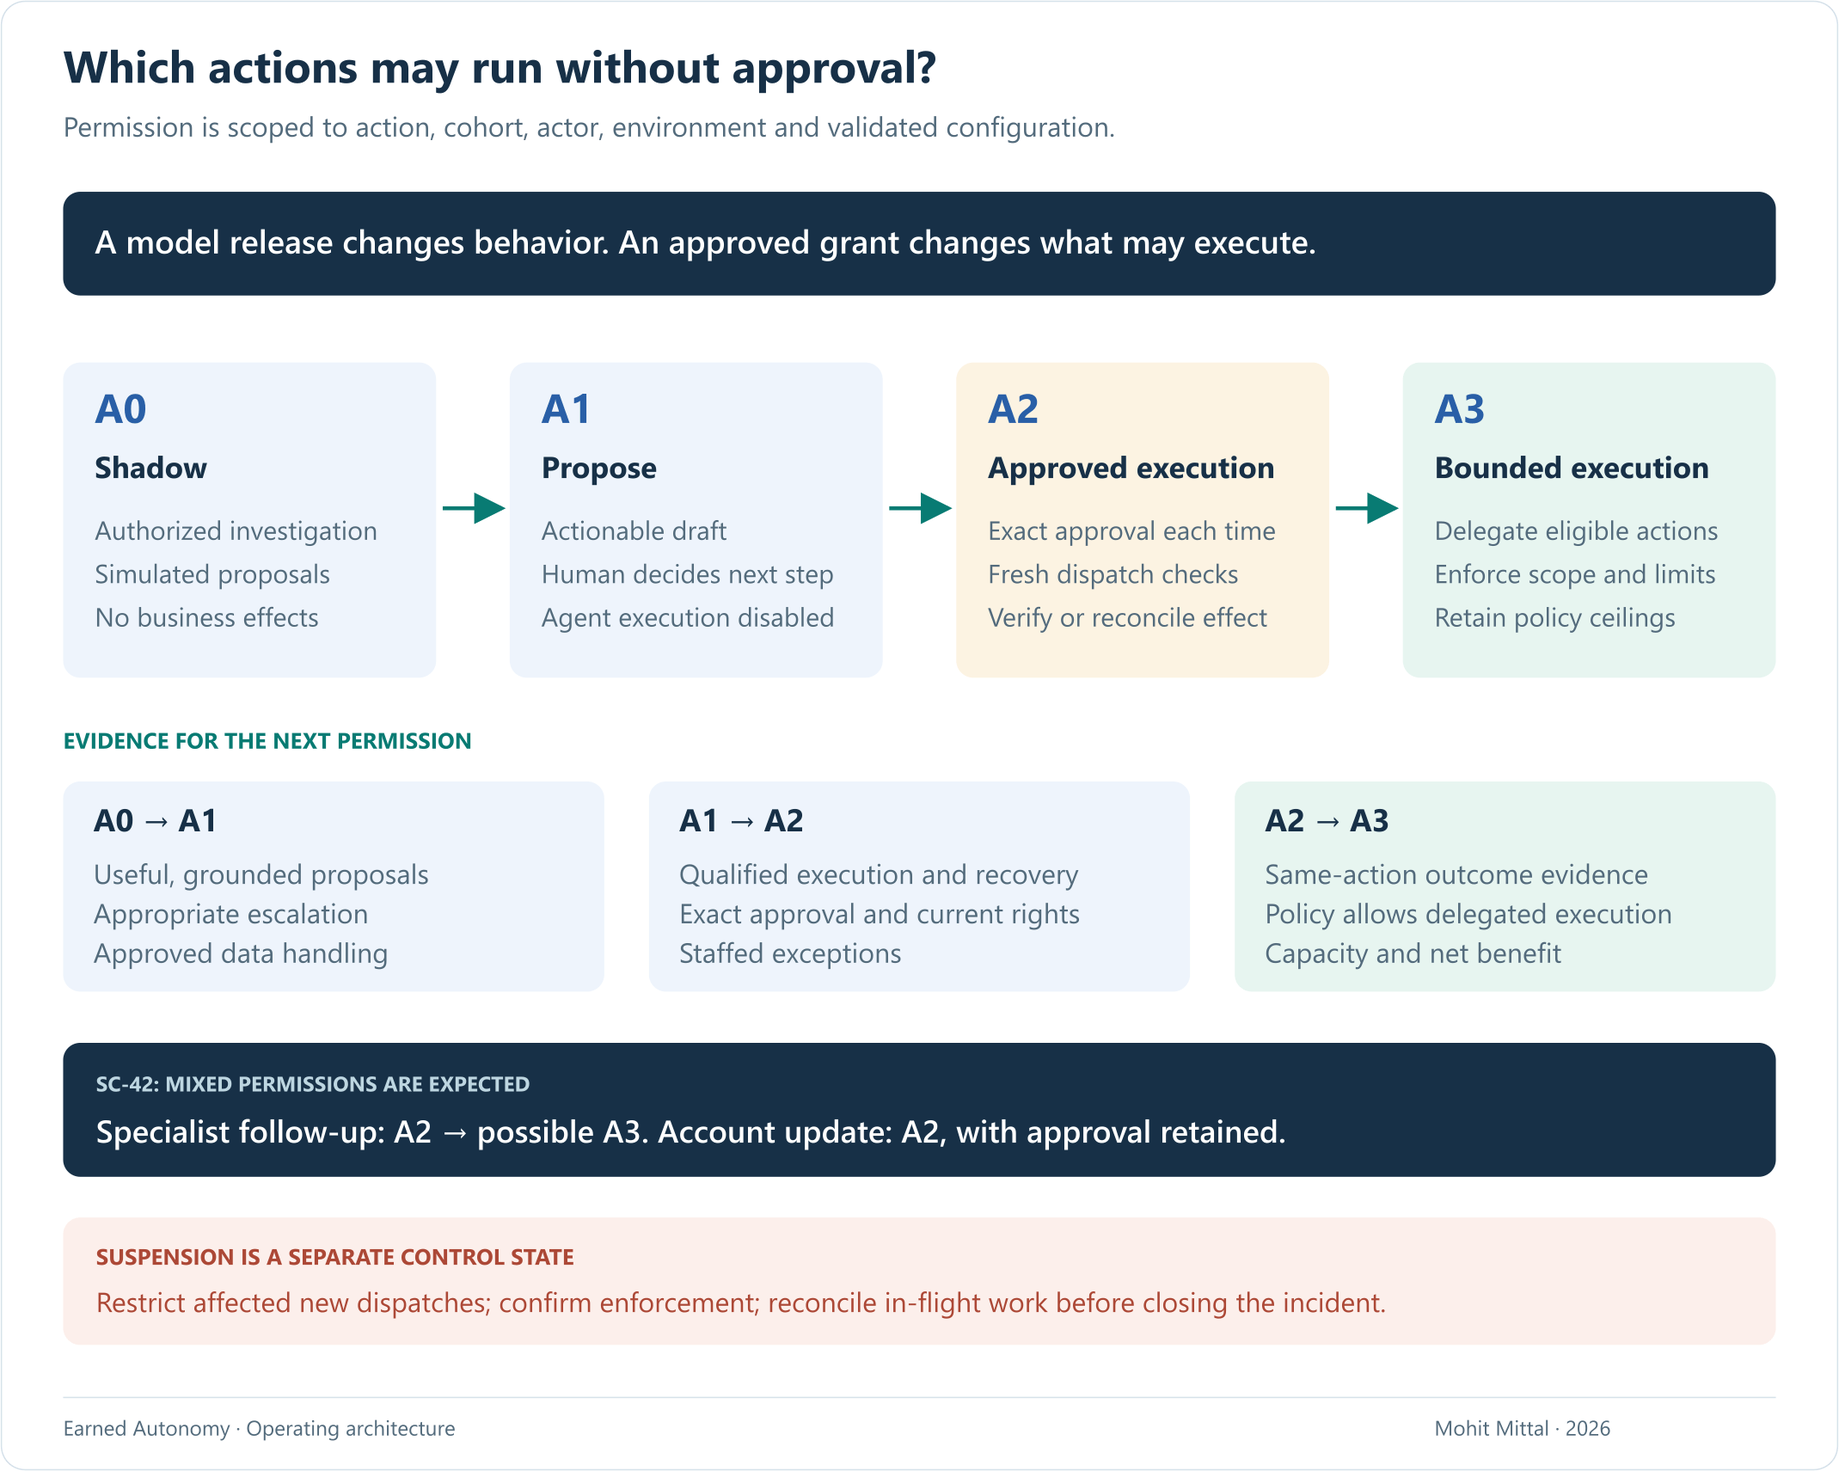
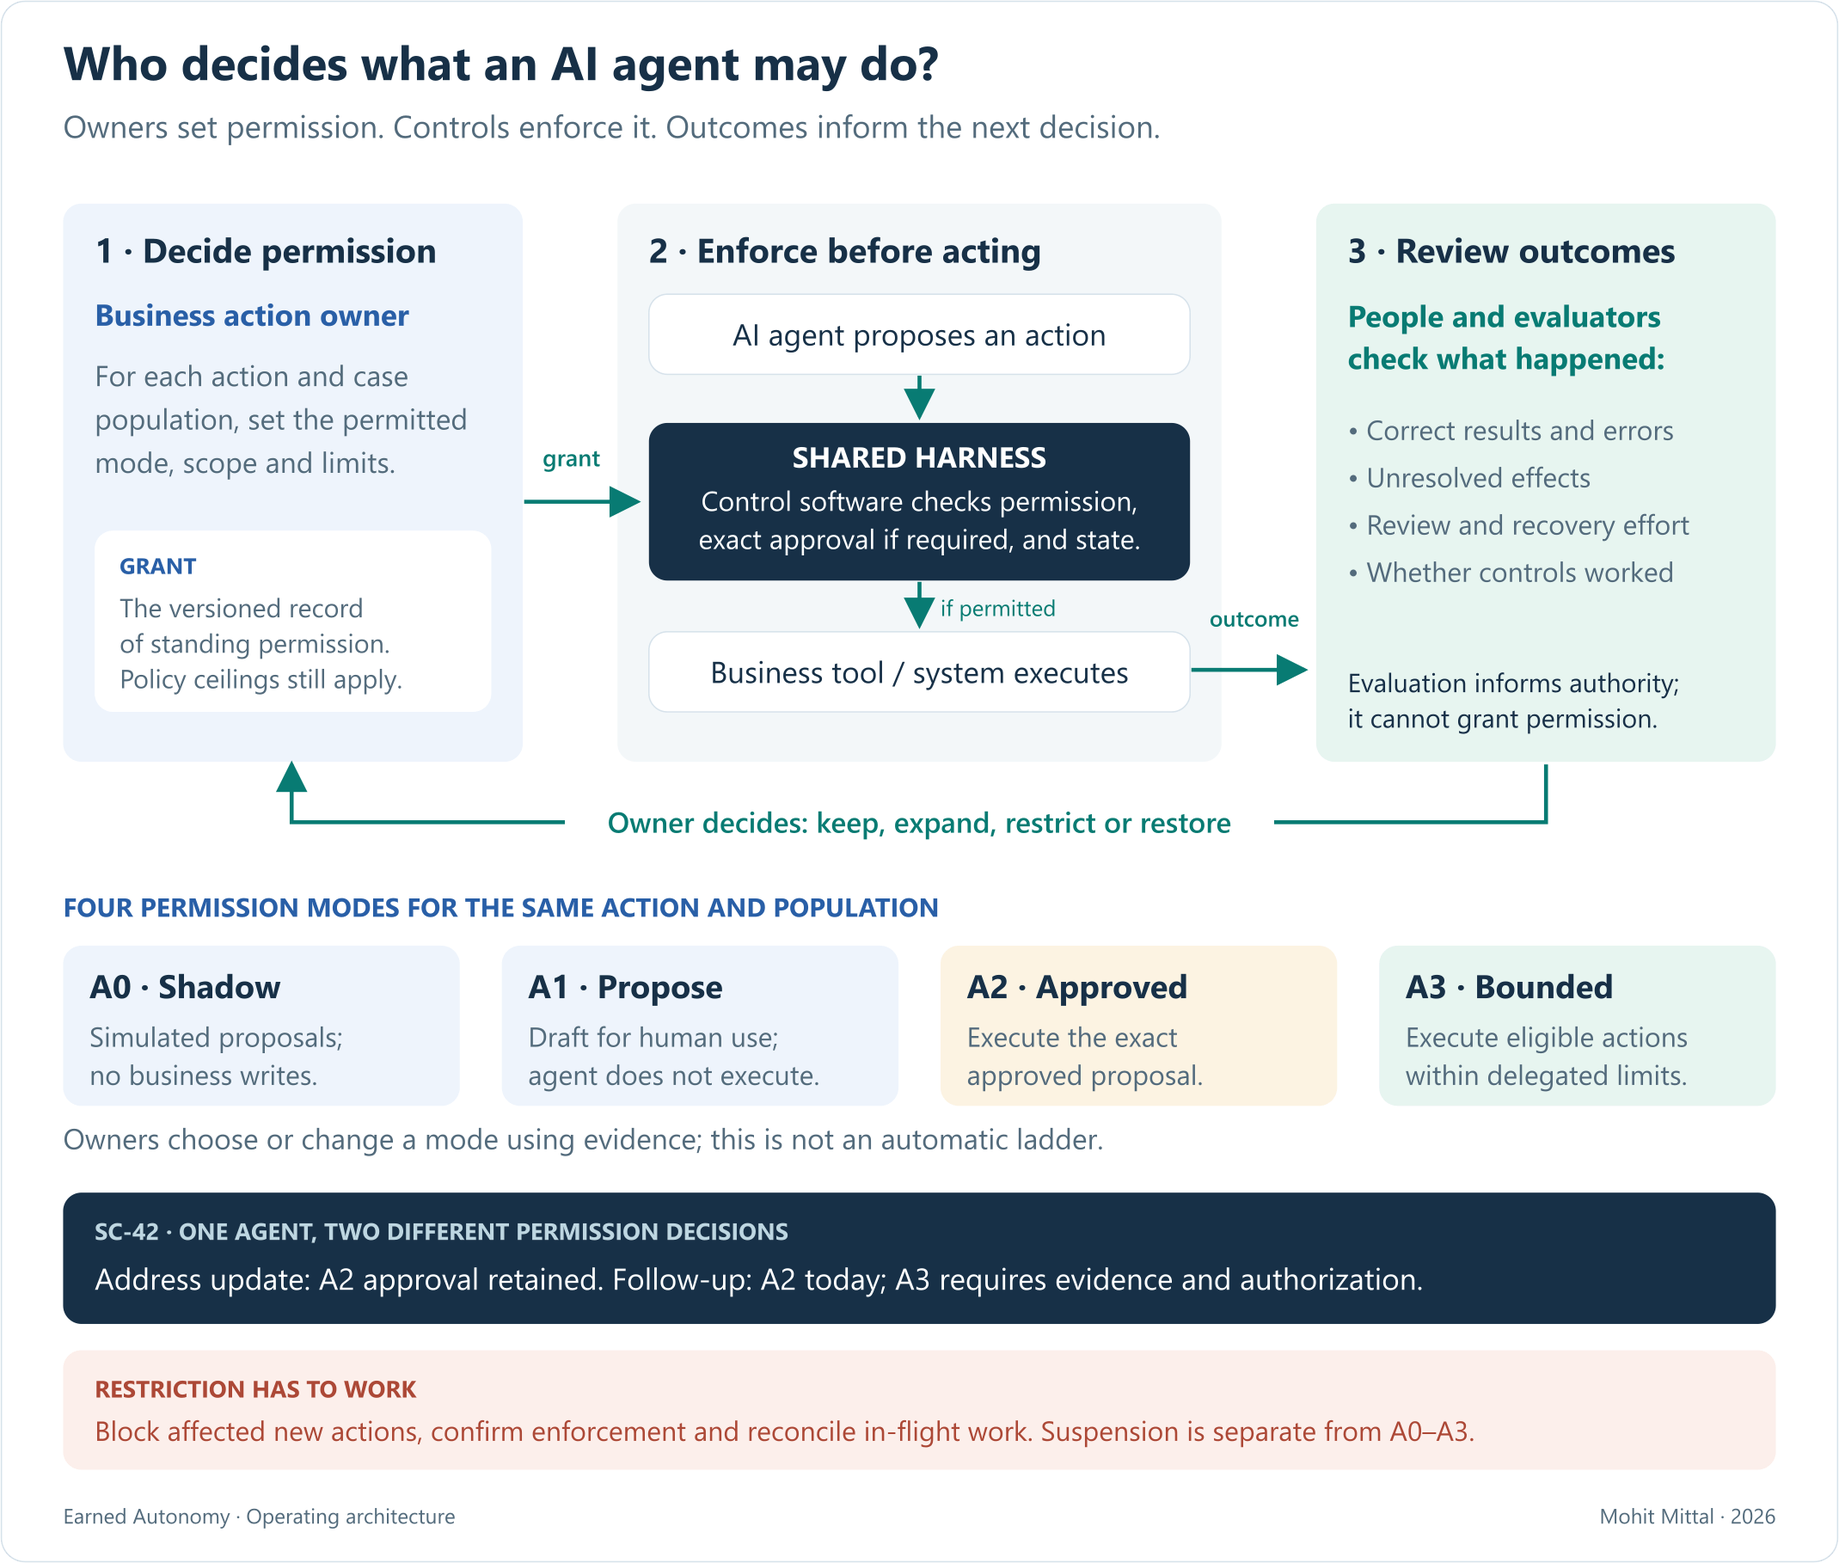
Explain the business context before permissions and show the operating model first

diff --git a/README.md b/README.md
@@ -1,50 +1,32 @@
 # Earned Autonomy
 
-**A model release changes behavior. An approved grant changes what may execute.**
+**How enterprises decide what AI agents may do—and keep that authority under control.**
 
-When nobody can defend write access—or confirm it has been revoked—an agent stays at drafting. Give each action a versioned permission, enforce it through a shared harness, and test how operators take it back.
+An AI agent can investigate a service request, recommend a change or use tools to update a business system. Each activity carries different consequences. Access to read a customer record should not also permit changing it.
 
-**Fund a 90-day evaluation of one servicing case type.** The payoff to test is correctly resolved work with less advisor and operations effort. Day 90 produces an evidence-backed decision: expand, narrow or stop.
+**Earned autonomy means granting permission for specific business actions, based on evidence, with a working way to restrict or withdraw it.** One agent can have different permissions: draft a response, update an address after approval, or create an internal follow-up within delegated limits.
 
-## What the 90 days should deliver
+The operating model connects three responsibilities: **owners decide permissions; a shared harness (control software) enforces them; people and evaluation tools review outcomes.** That review informs the owner's next permission decision. The aim is useful work with less total human effort while preserving quality and control.
 
-The operations sponsor owns the outcome; the platform lead owns execution and recovery; domain reviewers and risk partners agree acceptance criteria.
-
-| Window | Deliverable |
-|---|---|
-| Days 1–30 | Baseline effort/cost, eligible cases, action owners and destination guarantees. |
-| Days 31–60 | Bounded implementation; evaluation, approval, restriction and reconciliation drills. |
-| Days 61–90 | Supervised cohort when entry conditions pass; economics, control evidence, gaps and expansion recommendation. |
-
-**Resources:** [ILLUSTRATIVE — replace with real data: staff allocation and 90-day budget cap]. Advancement requires evidence, not a date.
-
-## Is the work worth delegating?
-
-Choose sufficient volume, variable investigation paths, measurable resolution and bounded effects with workable recovery. Prefer a fixed workflow where it solves the problem more cheaply.
-
-**Monthly net capacity value** = eligible cases × handling minutes × expected gross reduction ÷ 60 × loaded hourly cost − incremental review, exception, runtime/platform and governance costs.
-
-[ILLUSTRATIVE — replace with real data: all formula inputs; costs in dollars/month; implementation cost reported separately]. Count each cost once. Capacity value becomes cash savings only through a spending decision.
-
-Price the whole investigation/resolution workflow. Measure the extra benefit of removing follow-up approval separately. Don't fund this if review and recovery consume the benefit. [Sizing worksheet](reference-design.md#value-sizing)
+The recorded permission is a **grant**. **A model release changes behavior. An approved grant changes what may execute.**
 
 ## Follow one case through the controls
 
-In fictional case **SC-42**, a document and account record disagree on the mailing address. The agent investigates permitted sources; the discrepancy alone proves no intent to change it. Unauthorized address changes can signal account takeover, so address updates retain verification and approval here. [FINRA](https://www.finra.org/investors/insights/customer-account-takeovers)
+In fictional **SC-42**, an advisor asks why a request remains open. The agent finds conflicting mailing addresses, which do not establish client intent. Unauthorized address changes can signal account takeover, so an update requires verification and approval. [FINRA](https://www.finra.org/investors/insights/customer-account-takeovers)
 
 <a id="permission-modes"></a>
 
-### 1 · Choose authority per action
+### 1 · Connect decisions, execution and evidence
 
-**A0** shadows; **A1** drafts; **A2** executes an approved proposal; **A3** executes within delegated limits. Each applies to an action and case population. Address updates stay A2; internal specialist follow-ups are the candidate for A3.
+Set permissions per action and case population. Address updates require approval. The delegation candidate creates specialist follow-up tickets in approved internal queues.
 
-[![Permission modes and evidence needed to change them](diagrams/p2-autonomy-per-action.png)](diagrams/p2-autonomy-per-action.png)
+[![Permission decisions, enforcement and outcome review](diagrams/p2-autonomy-per-action.png)](diagrams/p2-autonomy-per-action.png)
 
 <a id="shared-harness"></a>
 
 ### 2 · Enforce the permission
 
-The **shared harness** checks access, limits and required evidence, dispatches actions and records outcomes. A **grant** sets standing permission; an **approval** authorizes one exact proposal. Each agent has an owner and supported configuration.
+The **shared harness** is the control software between an agent and its business tools. It checks permission, required approval and current conditions before execution, then records outcomes. An **approval** authorizes one exact proposal within the standing grant.
 
 [![Agents connect to the shared harness and operating controls](diagrams/p2-agent-harness.png)](diagrams/p2-agent-harness.png)
 
@@ -52,7 +34,7 @@ The **shared harness** checks access, limits and required evidence, dispatches a
 
 ### 3 · Check again at dispatch
 
-Verification establishes the client's intended address; a reviewer approves the exact change. Recheck the payload, current rights, grant and preconditions at dispatch. AI evaluators assess evidence; they cannot grant authority. The address operation **OP-42** times out. Reconcile its outcome before deciding whether to retry.
+Verification establishes the client's intended address; a reviewer approves the exact change. Before sending it, the shared harness rechecks the payload, rights, grant and preconditions. AI evaluators assess evidence; they cannot grant authority. The address operation **OP-42** times out. Reconcile its outcome before deciding whether to retry.
 
 [![Proposal, fresh checks, execution and verification](diagrams/p2-model-proposes-policy-decides.png)](diagrams/p2-model-proposes-policy-decides.png)
 
@@ -60,7 +42,7 @@ Verification establishes the client's intended address; a reviewer approves the 
 
 ### 4 · Confirm that a restriction took effect
 
-Operations requests a hold on new address updates for SC-42. The console shows acknowledgment pending and OP-42 unknown. The case-specific hold cannot undo an in-flight update. Follow-up promotion is deferred because necessity and routing evidence are incomplete.
+Operations requests a hold on new SC-42 address updates. Acknowledgment is pending; OP-42 remains unknown. The hold cannot undo an in-flight update. The owner retains A2 for follow-ups: necessity and routing evidence remain incomplete.
 
 [![Console distinguishes a requested case hold from confirmed enforcement](diagrams/p2-agentic-console.png)](diagrams/p2-agentic-console.png)
 
@@ -68,7 +50,7 @@ Operations requests a hold on new address updates for SC-42. The console shows a
 
 ### 5 · Reconstruct the outcome
 
-Operations looks up OP-42 and compares authoritative state with the approved payload. The update is confirmed without repeating it. Completing that action leaves separate case-resolution checks and closure authorization.
+Operations looks up OP-42 and verifies authoritative state against the approved payload, confirming the update without repeating it. Case closure requires separate checks and authorization.
 
 [![Decision record links authorization to the verified outcome](diagrams/p2-decision-record.png)](diagrams/p2-decision-record.png)
 
@@ -80,9 +62,19 @@ Engineers improve sources, tools, prompts or models. Action owners review grants
 
 [![Separate behavior-improvement and authority-review loops](diagrams/p2-evaluation-loop.png)](diagrams/p2-evaluation-loop.png)
 
+## Is the work worth delegating?
+
+Choose frequent cases where investigations take different paths, outcomes are measurable and recovery is workable. Prefer a cheaper fixed workflow when it suffices.
+
+**Monthly net capacity value** = eligible cases × handling minutes × expected gross reduction ÷ 60 × loaded hourly cost − incremental review, exception, runtime/platform and governance costs.
+
+[ILLUSTRATIVE — replace with real data: all formula inputs; costs in dollars/month; implementation cost reported separately]. Count costs once. Released capacity becomes cash savings through a spending reduction.
+
+Price the whole workflow and the extra benefit of removing follow-up approval separately. Stop if review and recovery consume the benefit. [Sizing worksheet](reference-design.md#value-sizing)
+
 ## Why can't I buy this?
 
-Reuse identity, scoped tools, approval workflows and tracing. Buy their implementation where it meets the contract. Test the connections: **versioned per-action grants separate from model versions, a promotion evidence packet, restriction acknowledgment and owned reconciliation**. The firm owns domain criteria and acceptance even when a supplier implements the controls.
+Reuse identity, scoped tools, approval and tracing. Evaluate purchased controls against four contracts: **versioned per-action grants separate from model versions, promotion evidence, restriction acknowledgment and owned reconciliation**. The firm defines acceptable actions and outcomes.
 
 ## Fit the decisions into existing governance
 
@@ -93,6 +85,18 @@ Owners confirm this proposed mapping:
 | Grant change | Change management; supervisory procedures; versioned authorization. |
 | Promotion review | Business owner; model-risk practice where applicable; retained evaluation packet. |
 | Suspension/restoration | Incident procedures; enforcement acknowledgment; recovery and audit records. |
+
+## Test one workflow over 90 days
+
+The operations sponsor owns results; the platform lead owns execution and recovery. Domain and risk reviewers set acceptance criteria.
+
+| Window | Deliverable |
+|---|---|
+| Days 1–30 | Select cases; baseline effort/cost; agree permissions and recovery responsibilities. |
+| Days 31–60 | Implement controls; test approvals, restrictions and recovery from uncertain outcomes. |
+| Days 61–90 | Supervised use when entry criteria pass. Review costs, outcomes and controls; decide: expand, narrow or stop. |
+
+**Resources:** [ILLUSTRATIVE — replace with real data: staff allocation and 90-day budget cap].
 
 > **What this is and isn't:** A reference architecture with synthetic cases and unexecuted design artifacts. The modes are optional design vocabulary; shadow results cannot establish write/recovery safety. Owners set thresholds. No deployed results, vendor endorsement or compliance certification is asserted.
 

diff --git a/earned-autonomy-operating-model.md b/earned-autonomy-operating-model.md
@@ -1,12 +1,16 @@
 # Earned Autonomy: an operating model for agents that act
 
-**A model release changes behavior. An approved grant changes what may execute.**
-
 *Mohit Mittal · September 2026*
 
-When a team cannot defend write access or demonstrate revocation, its agent remains a drafting tool. Give each business action a versioned grant, enforce it through a shared harness, and make operations responsible for unresolved effects. Judge success by correctly resolved work, total human effort and operating cost.
+An AI agent can investigate a service request, recommend a change or use tools to update a business system. Each activity carries different consequences. Access to read a customer record should not also permit changing it.
 
-Start with a bounded 90-day evaluation of one case type. The decision packet should show whether to expand, narrow or stop, which controls worked, what remains unresolved and who will operate the service. [Scope, resources and value sizing](reference-design.md#value-sizing)
+**Earned autonomy means granting permission for specific business actions, based on evidence, with a working way to restrict or withdraw it.** One agent can draft recommendations, update addresses after human approval and create eligible internal follow-ups within delegated limits. Permission varies by action and population.
+
+The operating model connects three responsibilities: owners decide permissions; a shared harness—the control software between the agent and its business tools—checks and enforces them; people and evaluation tools review actual outcomes. That evidence informs the owner's next permission decision. The objective is correctly resolved work with less total human effort and acceptable operating cost.
+
+The recorded permission is a **grant**. **A model release changes behavior. An approved grant changes what may execute.** Existing identity, approval and monitoring capabilities provide foundations. The integration work connects a versioned action grant to execution checks, review evidence, confirmed restrictions and recovery of uncertain outcomes.
+
+Use one workflow to evaluate the operating model before expanding it. A bounded 90-day evaluation can establish whether to expand, narrow or stop. [Scope, resources and value sizing](reference-design.md#value-sizing)
 
 > **What this is and isn't:** An independent reference architecture. Cases, identifiers, console states and grant-review outcomes are synthetic; design artifacts are unexecuted. A0–A3 are optional design vocabulary. Owners choose numerical acceptance limits before evaluation; shadow results cannot establish write or recovery safety. Sources provide context, not certification of the design. Product examples are candidates to evaluate; no employer deployment, measured benefit or customer fine-tuning capability is asserted.
 
@@ -22,11 +26,9 @@ In SC-42, investigation discovers a mailing-address mismatch. The domain owner m
 
 Price the whole investigation and resolution workflow. Internal follow-up creation is the first limited delegation to evaluate; it cannot justify the platform on ticket volume alone. Compare the additional A2-to-A3 benefit with the review removed and the audit, exception and queue work it adds. Keep the action approval-gated when that incremental benefit is absent.
 
-[AUTHOR: Add one anonymized example of a real delegation decision you owned: the workflow, the permission withheld or granted, your design choice and the observed result. Include only facts you can publish.]
-
 ## Authority is a contract for an action
 
-[![Four action-scoped autonomy modes, with distinct promotion evidence and a separate suspension control](diagrams/p2-autonomy-per-action.png)](diagrams/p2-autonomy-per-action.png)
+[![Permission decisions, enforcement and outcome review, with four modes for each action](diagrams/p2-autonomy-per-action.png)](diagrams/p2-autonomy-per-action.png)
 
 Treat an authority grant as a versioned record: **action, actor/delegation, scope, eligible cohort, environment, allowed mode, mandatory approvals, limits, expiry, validated system/configuration versions and accountable owner**. The registered capability describes what the agent can attempt; the grant describes what it may perform. Current policy and destination authorization can further restrict it.
 
@@ -105,8 +107,6 @@ This snapshot shows OP-42 after a timeout, before reconciliation. The later deci
 For each action/cohort, show the effective grant and configuration, owner, policy ceiling, evaluation window, sample coverage, material errors, human effort and exception backlog. Expose missing evidence instead of displaying an unexplained green trust score. Operators should be able to move from a metric to the reviewed cases and operation records that produced it.
 
 A promotion request records the proposed change, evidence and approvers. Restriction records have separate **requested**, **enforcement confirmed**, and **in-flight reconciled** states. Measure the delay between them. The console must not display “suspended” merely because it accepted a button click; an unacknowledged request needs a defined operational escalation.
-
-[AUTHOR: Add an anonymized operational lesson about revocation, a stop control or an uncertain write. State what you personally observed, who owned recovery and what changed. Omit this note if no publishable example exists.]
 
 Business owners authorize grant expansion with risk partners. Operations may restrict within preauthorized incident procedures. Restoration has its own approval path. These changes use authenticated, authorized and audited control APIs; the evaluating model cannot write the grant store or approve its own recommendations.
 

diff --git a/diagrams/README.md b/diagrams/README.md
@@ -2,7 +2,7 @@
 
 Current Earned Autonomy diagrams use synthetic service case SC-42. All six appear directly in the [homepage reading path](../README.md), in the order below. Editable SVG sources accompany each PNG.
 
-- [Which actions may run without approval?](p2-autonomy-per-action.png)
+- [Who decides what an AI agent may do?](p2-autonomy-per-action.png)
 - [Where permission is enforced](p2-agent-harness.png)
 - [From proposal to verified result](p2-model-proposes-policy-decides.png)
 - [Is the restriction in force?](p2-agentic-console.png)
